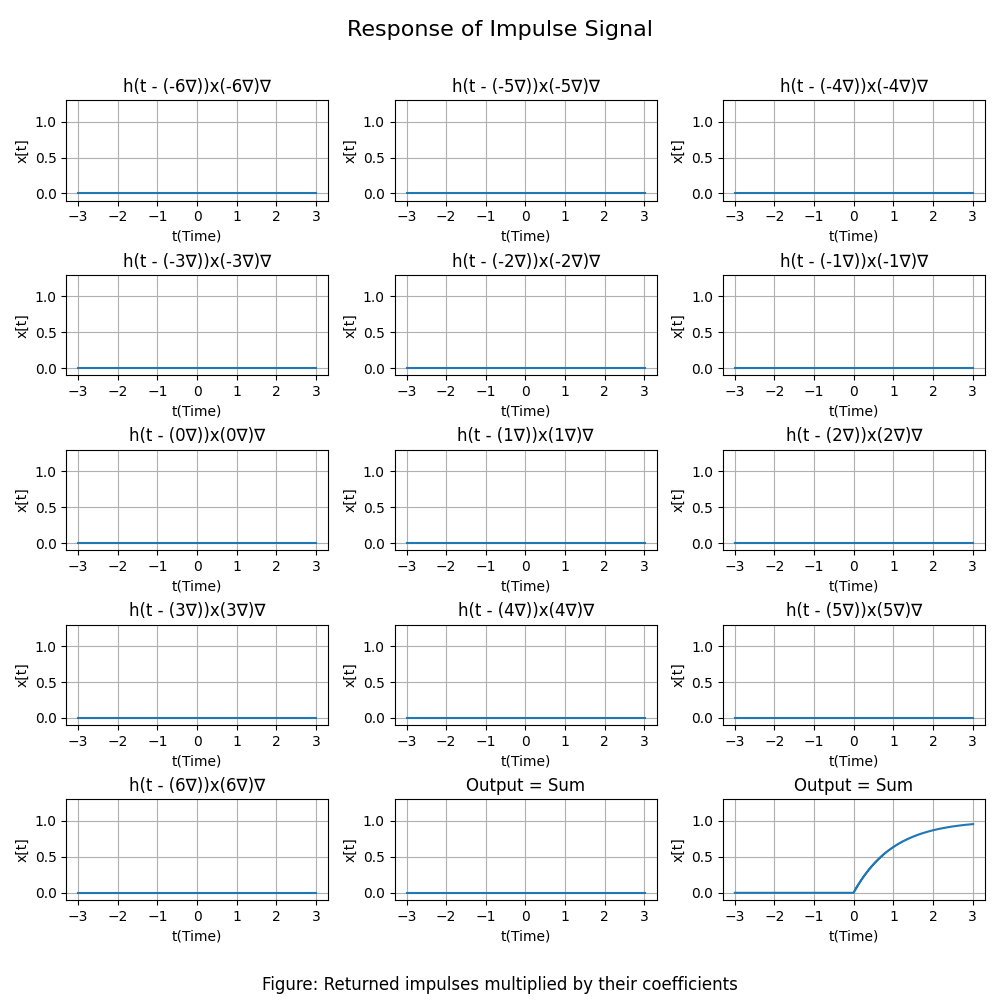
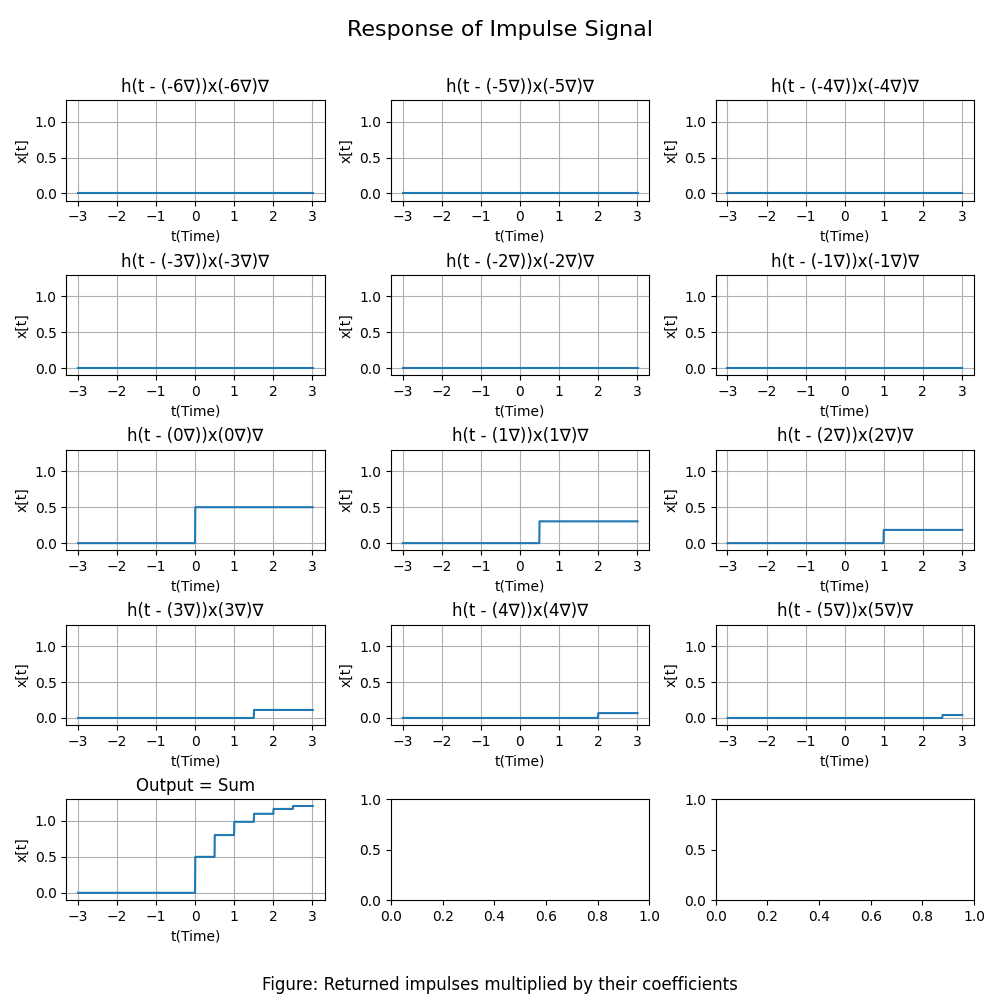
offline 1 worked, hurrah!

diff --git a/Offline-1/main.py b/Offline-1/main.py
@@ -27,6 +27,7 @@ def main():
     input_portion = []
     sum = DiscreteSignal.DiscreteSignal(np.zeros(2 * INF + 1), INF)
     unit_impulses, coefficients = lti.linear_combination_of_impulses(input_signal)
+
     for unit_impulse, coefficient in zip(unit_impulses, coefficients):
         sum = sum.add(unit_impulse.multiply_constant_factor(coefficient))
         input_portion.append(unit_impulse.multiply_constant_factor(coefficient))
@@ -43,6 +44,7 @@ def main():
     # --Output Portion--
     output_portion = []
     output_signal, constituent_impulses, coefficients = lti.output(input_signal)
+
     for constituent_impulse, coefficient in zip(constituent_impulses, coefficients):
         output_portion.append(constituent_impulse.multiply_constant_factor(coefficient))
 
@@ -75,6 +77,7 @@ def main():
     input_portion = []
     reconstructed_signal = ContinuousSignal.ContinuousSignal(lambda t: 0, INF)
     impulses, coefficients = lti.linear_combination_of_impulses(input_signal, delta)
+
     for impulse, coefficient in zip(impulses, coefficients):
         reconstructed_signal = reconstructed_signal.add(
             impulse.multiply_constant_factor(coefficient)
@@ -82,7 +85,7 @@ def main():
         input_portion.append(impulse.multiply_constant_factor(coefficient))
 
     subplotTitles = []
-    for k in range (-2 * INF, 2 * INF + 1):
+    for k in range(-2 * INF, 2 * INF + 1):
         subplotTitles.append(f"δ(t - ({k}∇))x({k}∇)∇")
 
     subplotTitles.append("Reconstructed Signal")
@@ -101,11 +104,11 @@ def main():
     )
 
     # --Reconstructed Signal with varying Delta--
-    deltas = [0.5, 0.1, 0.05, 0.01]
+    Deltas = [0.5, 0.1, 0.05, 0.01]
     reconstructed_signals = []
-    for delta in deltas:
+    for Delta in Deltas:
         reconstructed_signal = ContinuousSignal.ContinuousSignal(lambda t: 0, INF)
-        impulses, coefficients = lti.linear_combination_of_impulses(input_signal, delta)
+        impulses, coefficients = lti.linear_combination_of_impulses(input_signal, Delta)
         for impulse, coefficient in zip(impulses, coefficients):
             reconstructed_signal = reconstructed_signal.add(
                 impulse.multiply_constant_factor(coefficient)
@@ -113,8 +116,8 @@ def main():
         reconstructed_signals.append(reconstructed_signal)
 
     subplotTitles = []
-    for delta in deltas:
-        subplotTitles.append(f"∇ = {delta}")
+    for Delta in Deltas:
+        subplotTitles.append(f"∇ = {Delta}")
 
     input_signal.plot_multiple_signal(
         reconstructed_signals,
@@ -137,11 +140,12 @@ def main():
     output_signal, constituent_impulses, coefficients = lti.output_approx(
         input_signal, delta
     )
+
     for constituent_impulse, coefficient in zip(constituent_impulses, coefficients):
         output_portion.append(constituent_impulse.multiply_constant_factor(coefficient))
 
     subplotTitles = []
-    for k in range (-2 * INF, 2 * INF + 1):
+    for k in range(-2 * INF, 2 * INF + 1):
         subplotTitles.append(f"h(t - ({k}∇))x({k}∇)∇")
 
     subplotTitles.append("Output = Sum")
@@ -160,15 +164,15 @@ def main():
     )
 
     # --Output Signal with varying Delta--
-    deltas = [0.5, 0.1, 0.05, 0.01]
+    Deltas = [0.5, 0.1, 0.05, 0.01]
     reconstructed_signals = []
-    for delta in deltas:
-        output_signal, impulses, coefficients = lti.output_approx(input_signal, delta)
+    for Delta in Deltas:
+        output_signal, impulses, coefficients = lti.output_approx(input_signal, Delta)
         reconstructed_signals.append(output_signal)
 
     subplotTitles = []
-    for delta in deltas:
-        subplotTitles.append(f"∇ = {delta}")
+    for Delta in Deltas:
+        subplotTitles.append(f"∇ = {Delta}")
 
     output_signal_varying_delta = ContinuousSignal.ContinuousSignal(
         lambda t: np.piecewise(t, [t < 0, t >= 0], [0, lambda t: 1 - np.exp(-t)]), INF

diff --git a/Offline-1/LTI_Continuous.py b/Offline-1/LTI_Continuous.py
@@ -58,7 +58,7 @@ class LTI_Continuous:
 
 if __name__ == "__main__":
     INF = 3
-    delta = 0.05
+    delta = 0.5
     impulse_response = ContinuousSignal.ContinuousSignal(
         lambda t: np.piecewise(t, [t < 0, t >= 0], [0, 1]), INF
     )
@@ -73,20 +73,20 @@ if __name__ == "__main__":
         lambda t: 0, input_signal.INF
     )
 
-    impulses, coefficients = lti.linear_combination_of_impulses(input_signal, delta)
-    for impulse, coefficient in zip(impulses, coefficients):
-        reconstructed_signal = reconstructed_signal.add(
-            impulse.multiply_constant_factor(coefficient)
-        )
+    # impulses, coefficients = lti.linear_combination_of_impulses(input_signal, delta)
+    # for impulse, coefficient in zip(impulses, coefficients):
+    #     reconstructed_signal = reconstructed_signal.add(
+    #         impulse.multiply_constant_factor(coefficient)
+    #     )
         # impulse.multiply_constant_factor(coefficient).plot(0, 1)
 
-    reconstructed_signal.plot(0, 1, 0.5)
+    # reconstructed_signal.plot(0, 1, 0.5)
 
-    # output_signal, constituent_impulses, coefficients = lti.output_approx(
-    #     input_signal, delta
-    # )
+    output_signal, constituent_impulses, coefficients = lti.output_approx(
+        input_signal, delta
+    )
 
-    # for constituent_impulse, coefficient in zip(constituent_impulses, coefficients):
-    #     constituent_impulse.multiply_constant_factor(coefficient).plot()
+    for constituent_impulse, coefficient in zip(constituent_impulses, coefficients):
+        constituent_impulse.multiply_constant_factor(coefficient).plot()
 
-    # output_signal.plot()
+    output_signal.plot()
